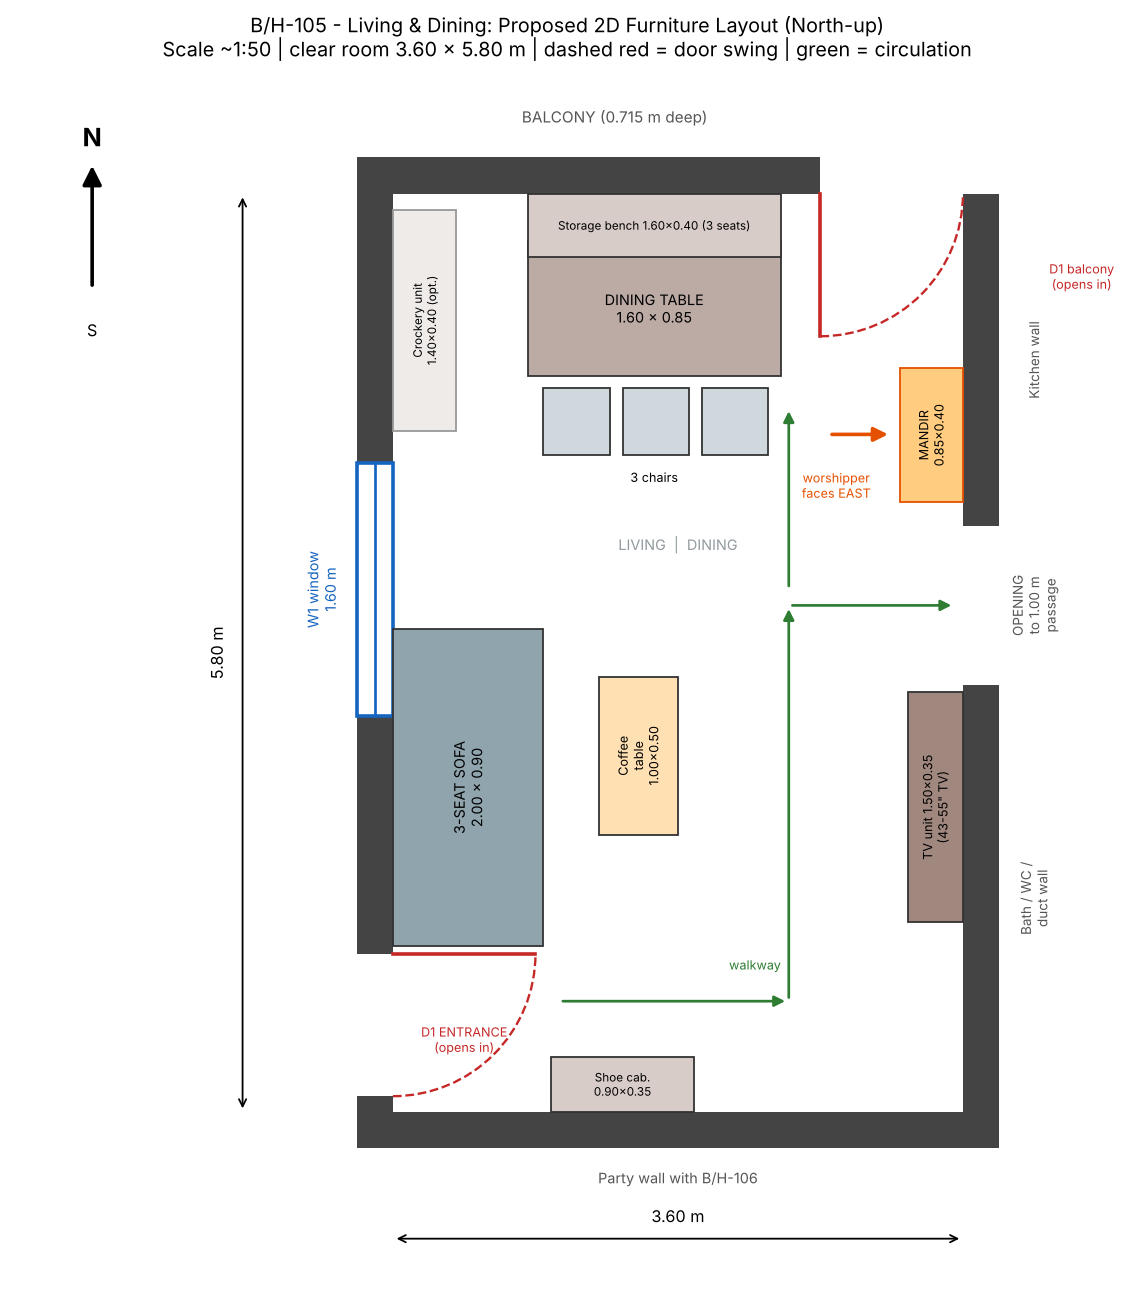
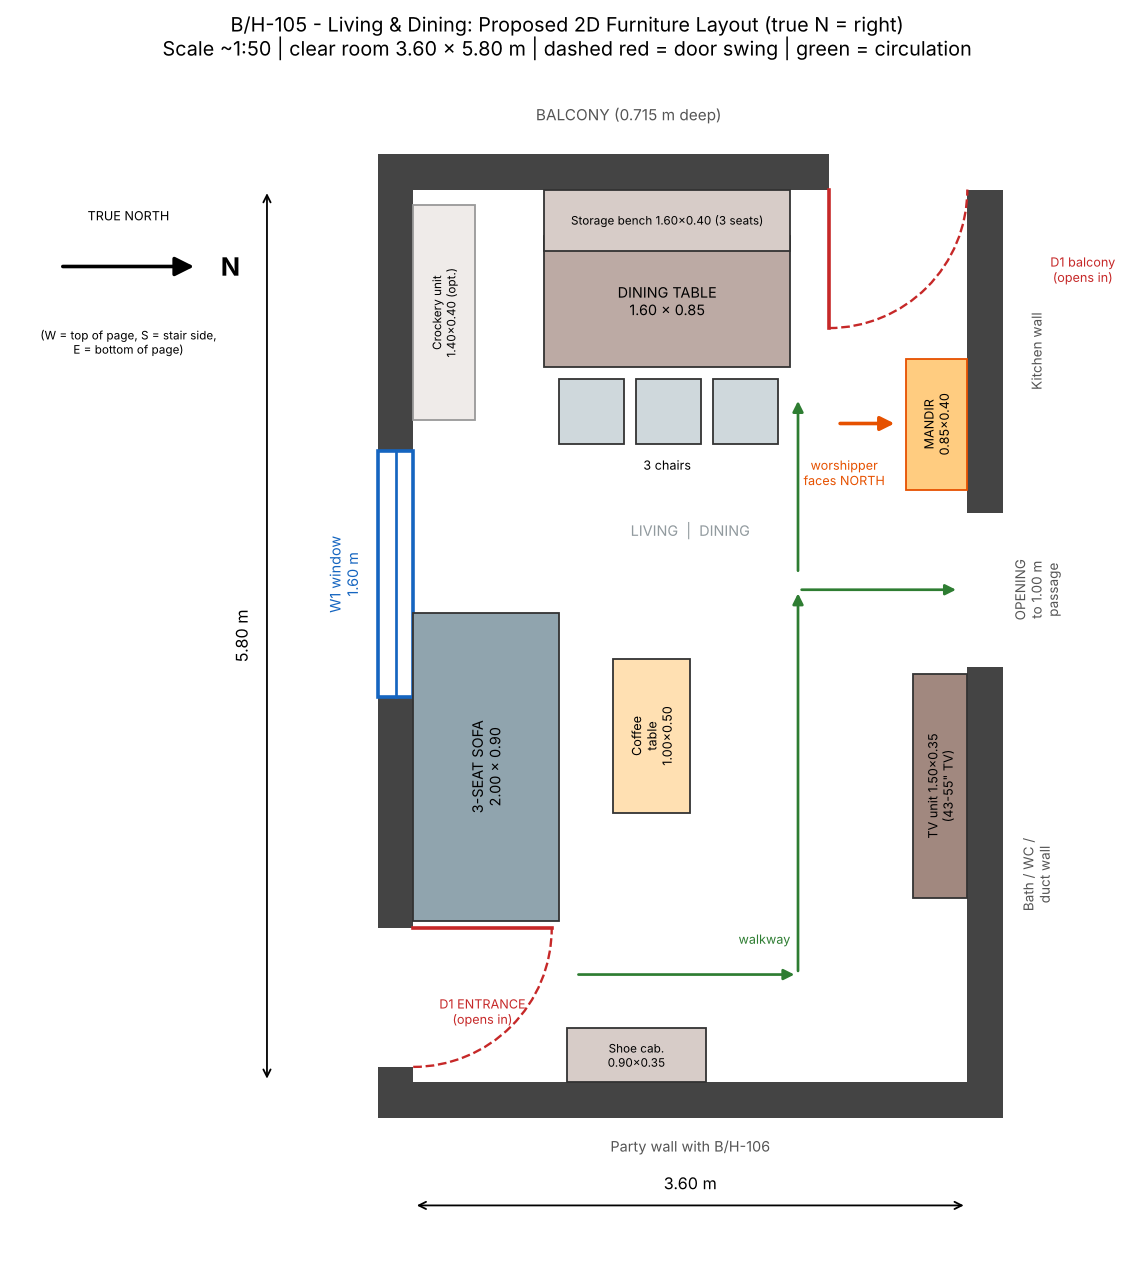
Correct compass per owner markings; add Option A2 with east-facing mandir
Claude-Session: https://claude.ai/code/session_01UCohsG82jnYBFe4c7eg3ky

diff --git a/bh105/draw_alt.py b/bh105/draw_alt.py
@@ -15,7 +15,7 @@ for i in range(3): f(0.95+i*0.5,4.15,0.42,0.42,'','#cfd8dc')
 f(0.0,4.3,0.4,1.4,'Crockery unit\\n1.40x0.40 (opt.)','#efebe9',6.5,90,ec='#999')
 f(3.2,3.85,0.4,0.85,'MANDIR\\n0.85x0.40','#ffcc80',7,90,ec='#e65100')
 ax.add_patch(FancyArrowPatch((2.75,4.28),(3.15,4.28),arrowstyle='-|>',mutation_scale=16,color='#e65100',lw=2,zorder=6))
-ax.text(2.8,3.88,'worshipper\\nfaces EAST',fontsize=7,color='#e65100',ha='center')
+ax.text(2.8,3.88,'worshipper\\nfaces NORTH',fontsize=7,color='#e65100',ha='center')
 for p,q in [((1.05,0.7),(1.3,0.7)),((1.3,0.7),(1.3,3.2)),((1.3,3.2),(3.55,3.2)),((1.3,3.3),(1.3,4.0))]:
     ax.add_patch(FancyArrowPatch(p,q,arrowstyle='-|>',mutation_scale=12,color='#2e7d32',lw=1.5,zorder=6))
 """)
@@ -30,13 +30,28 @@ f(0.85,5.45,1.6,0.35,'Storage bench (3 seats)','#d7ccc8',6.5)
 for i in range(3): f(0.95+i*0.5,4.3,0.42,0.42,'','#cfd8dc')
 f(3.2,3.95,0.4,0.8,'MANDIR\\n0.80x0.40','#ffcc80',7,90,ec='#e65100')
 ax.add_patch(FancyArrowPatch((2.75,4.35),(3.15,4.35),arrowstyle='-|>',mutation_scale=16,color='#e65100',lw=2,zorder=6))
-ax.text(2.8,3.98,'worshipper\\nfaces EAST',fontsize=7,color='#e65100',ha='center')
+ax.text(2.8,3.98,'worshipper\\nfaces NORTH',fontsize=7,color='#e65100',ha='center')
 for p,q in [((1.05,0.7),(2.7,0.7)),((2.7,0.7),(2.7,3.2)),((2.7,3.2),(3.55,3.2)),((2.7,3.3),(2.7,4.4))]:
     ax.add_patch(FancyArrowPatch(p,q,arrowstyle='-|>',mutation_scale=12,color='#2e7d32',lw=1.5,zorder=6))
 """)
 
+V['A2']=("Option A2 - Option A with mandir facing true EAST","living_dining_option_A2_mandir_east.png",'''
+f(1.0,0.0,0.9,0.35,'Shoe cab.\\n0.90x0.35','#d7ccc8',6.5)
+f(0.0,1.05,0.95,2.0,'3-SEAT SOFA\\n2.00 x 0.90','#90a4ae',8,90)
+f(1.3,1.75,0.5,1.0,'Coffee\\ntable\\n1.00x0.50','#ffe0b2',7,90)
+f(3.25,1.2,0.35,1.45,'TV unit 1.50x0.35\\n(43-55" TV)','#a1887f',7,90)
+f(0.85,4.65,1.6,0.85,'DINING TABLE\\n1.60 x 0.85','#bcaaa4',8)
+f(0.85,5.4,1.6,0.4,'Storage bench 1.60x0.40 (3 seats)','#d7ccc8',6.5)
+for i in range(3): f(0.95+i*0.5,4.15,0.42,0.42,'','#cfd8dc')
+f(0.0,4.3,0.4,1.4,'Crockery unit\\n1.40x0.40 (opt.)','#efebe9',6.5,90,ec='#999')
+f(2.6,0.0,0.85,0.4,'MANDIR 0.85x0.40','#ffcc80',7,0,ec='#e65100')
+ax.add_patch(FancyArrowPatch((3.0,1.0),(3.0,0.5),arrowstyle='-|>',mutation_scale=16,color='#e65100',lw=2,zorder=6))
+ax.text(2.45,0.9,'worshipper\\nfaces EAST',fontsize=7,color='#e65100',ha='right')
+for p,q in [((1.05,0.75),(2.1,0.75)),((2.1,0.75),(2.1,3.2)),((2.1,3.2),(3.55,3.2)),((2.1,3.3),(2.1,4.0))]:
+    ax.add_patch(FancyArrowPatch(p,q,arrowstyle='-|>',mutation_scale=12,color='#2e7d32',lw=1.5,zorder=6))
+''')
 for k,(title,fn,body) in V.items():
     code=head+FDEF+body+tail
     code=re.sub(r'ax\.set_title\(.*?\)\n','ax.set_title("B/H-105 Living & Dining - %s\\nclear room 3.60 x 5.80 m | dashed red = door swing | green = circulation",fontsize=11)\n'%title,code,flags=re.S) if False else code
-    code=code.replace("B/H-105 - Living & Dining: Proposed 2D Furniture Layout (North-up)","B/H-105 Living & Dining - "+title).replace("living_dining_layout.png",fn)
+    code=code.replace("B/H-105 - Living & Dining: Proposed 2D Furniture Layout (true N = right)","B/H-105 Living & Dining - "+title).replace("living_dining_layout.png",fn)
     exec(code,{'re':re})

diff --git a/bh105/draw.py b/bh105/draw.py
@@ -43,7 +43,7 @@ f(0.0,4.3,0.4,1.4,'Crockery unit\n1.40x0.40 (opt.)','#efebe9',6.5,90,ec='#999')
 f(3.2,3.85,0.4,0.85,'MANDIR\n0.85x0.40','#ffcc80',7,90,ec='#e65100')
 # prayer direction
 ax.add_patch(FancyArrowPatch((2.75,4.28),(3.15,4.28),arrowstyle='-|>',mutation_scale=16,color='#e65100',lw=2,zorder=6))
-ax.text(2.8,3.88,'worshipper\nfaces EAST',fontsize=7,color='#e65100',ha='center')
+ax.text(2.8,3.88,'worshipper\nfaces NORTH',fontsize=7,color='#e65100',ha='center')
 # circulation
 for p,q in [((1.05,0.7),(2.5,0.7)),((2.5,0.7),(2.5,3.2)),((2.5,3.2),(3.55,3.2)),((2.5,3.3),(2.5,4.45))]:
     ax.add_patch(FancyArrowPatch(p,q,arrowstyle='-|>',mutation_scale=12,color='#2e7d32',lw=1.5,zorder=6))
@@ -52,10 +52,11 @@ ax.text(2.45,0.9,'walkway',fontsize=7,color='#2e7d32',ha='right')
 ax.annotate('',(0,-0.8),(W,-0.8),arrowprops=dict(arrowstyle='<->'));ax.text(W/2,-0.72,'3.60 m',ha='center',va='bottom',fontsize=9)
 ax.annotate('',(-0.95,0),(-0.95,D),arrowprops=dict(arrowstyle='<->'));ax.text(-1.05,D/2,'5.80 m',rotation=90,ha='right',va='center',fontsize=9)
 ax.text(1.8,3.55,'LIVING  |  DINING',fontsize=8,color='#37474f',ha='center',alpha=.55)
-# north arrow
-ax.add_patch(FancyArrowPatch((-1.9,5.2),(-1.9,6.0),arrowstyle='-|>',mutation_scale=22,color='k',lw=2))
-ax.text(-1.9,6.1,'N',ha='center',fontsize=14,weight='bold')
-ax.text(-1.9,5.0,'S',ha='center',va='top',fontsize=9);
-ax.set_xlim(-2.4,4.6); ax.set_ylim(-1.2,6.6); ax.axis('off')
-ax.set_title("B/H-105 - Living & Dining: Proposed 2D Furniture Layout (North-up)\nScale ~1:50 | clear room 3.60 x 5.80 m | dashed red = door swing | green = circulation",fontsize=11)
+# compass (per owner's markings: true N = image right, W = top, S = left, E = bottom)
+ax.add_patch(FancyArrowPatch((-2.3,5.3),(-1.4,5.3),arrowstyle='-|>',mutation_scale=22,color='k',lw=2))
+ax.text(-1.25,5.3,'N',va='center',fontsize=14,weight='bold')
+ax.text(-1.85,5.6,'TRUE NORTH',ha='center',fontsize=7)
+ax.text(-1.85,4.9,'(W = top of page, S = stair side,\nE = bottom of page)',ha='center',va='top',fontsize=6.5)
+ax.set_xlim(-2.6,4.6); ax.set_ylim(-1.2,6.6); ax.axis('off')
+ax.set_title("B/H-105 - Living & Dining: Proposed 2D Furniture Layout (true N = right)\nScale ~1:50 | clear room 3.60 x 5.80 m | dashed red = door swing | green = circulation",fontsize=11)
 fig.savefig('living_dining_layout.png',dpi=130,bbox_inches='tight')
